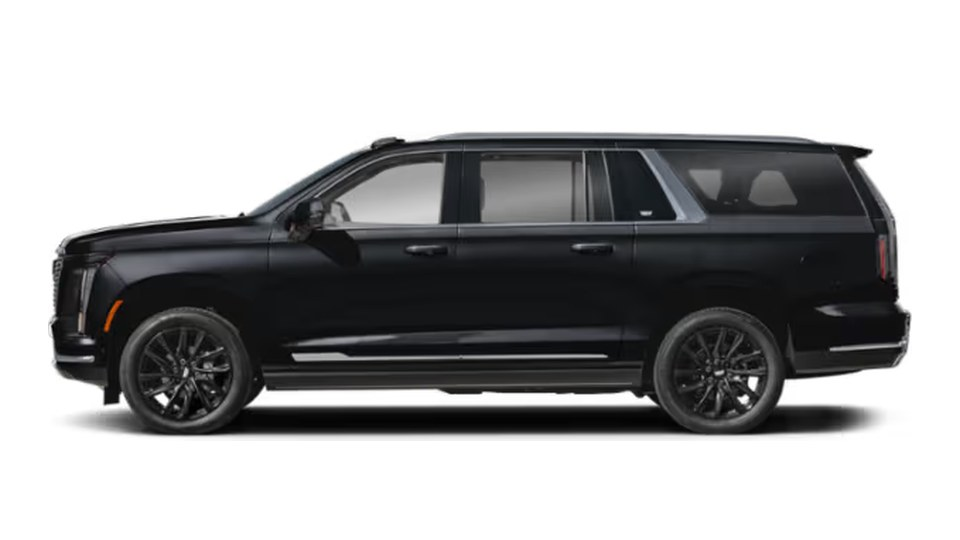
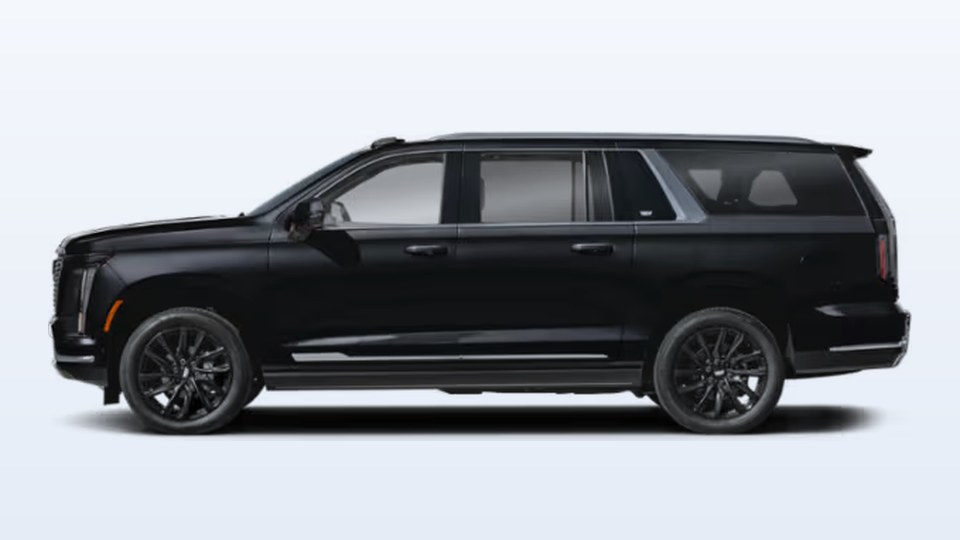
Faint blue background on fleet photos
Re-export all 13 vehicle photos with a soft blue gradient (#F4F7FC to
#E5ECF6) applied as a multiply tint, so backgrounds read as light
blue-grey while the black paint stays black and edges keep no halo.

diff --git a/lib/fleet.ts b/lib/fleet.ts
@@ -1,9 +1,11 @@
 /**
  * Single source for the fleet: vehicle classes, the models in each, and their photos
- * (public/fleet/*.jpg, 960×540, white background). Used by /fleet, the home page and /book.
+ * (public/fleet/*.jpg, 960×540, faint blue gradient background #F4F7FC → #E5ECF6 applied as a
+ * multiply tint). Used by /fleet, the home page and /book.
  * Capacities must match VEHICLE_CAPACITY in lib/booking-estimate-server.ts.
  *
- * Note: these photos are the same files eagleeyechauffeur.com uses (owner's choice, 2026-10-24).
+ * Note: these start from the same photos eagleeyechauffeur.com uses (owner's choice, 2026-10-24).
+ * The tint and reframing make the files differ, but image search can still match the shapes.
  * TODO(owner): replace with photos of your own cars before launch to keep the two sites distinct.
  */
 
